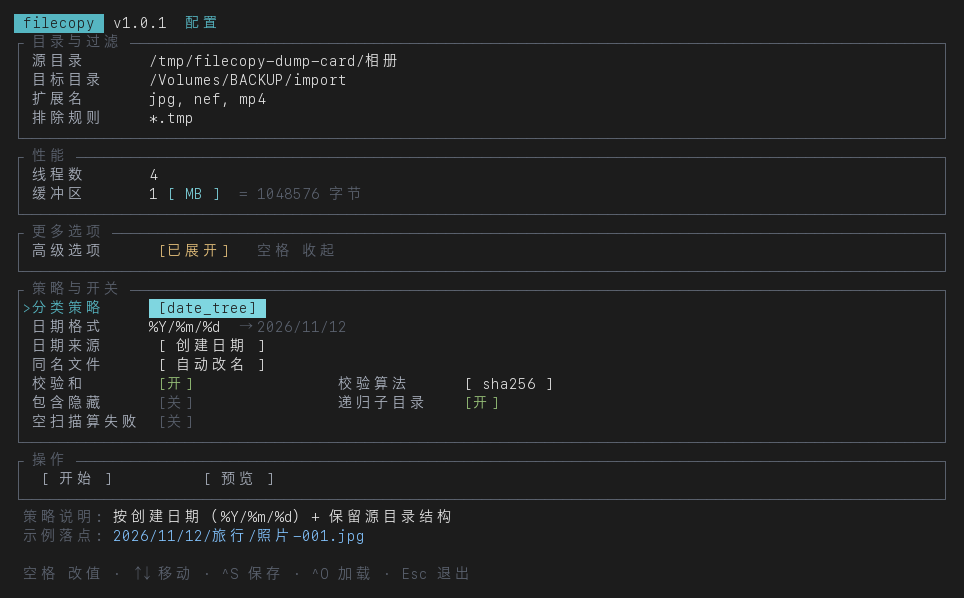
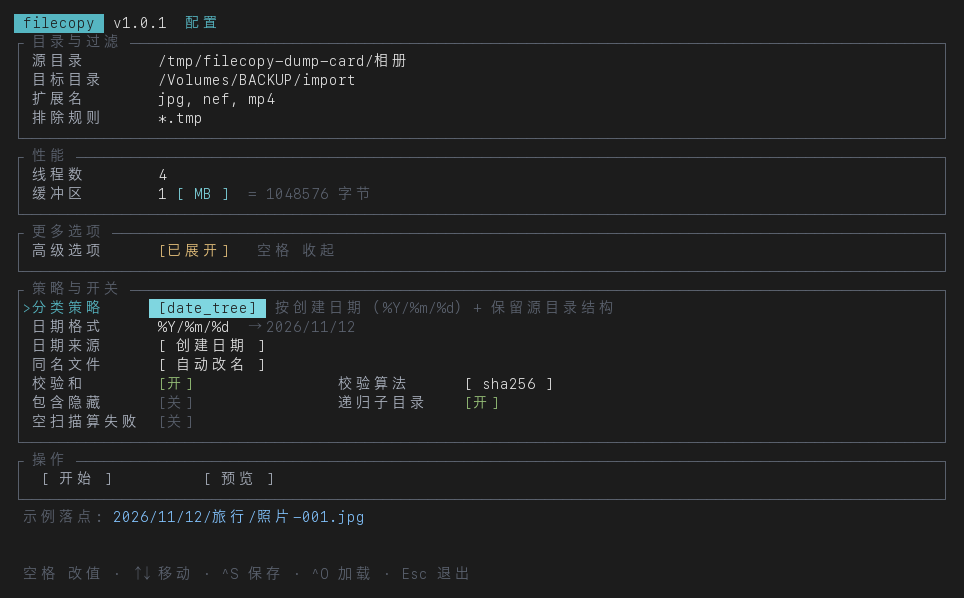
refactor(tui): 策略说明移到「分类策略」同一行
底部那行「策略说明:」飘在按钮下面，和它解释的字段隔了一整个表单，
展开高级选项时尤其别扭。

- 说明改成跟在「分类策略」的值后面（`[date_tree] 按创建日期（%Y/%m/%d）+ 保留源目录结构`），
  和日期格式的 `→ 2026/11/12`、缓冲区的 `= 1048576 字节` 是同一种写法
- 底部不再有单独的「策略说明」行，少占一行提示区
- 顺带修掉值列对不齐：未选中的文本字段少了前导空格，比选择框字段左一格
- 表单里的行超宽时也走 `clip_line`：以前长路径/长说明被边框硬切，现在截断成 `…`
- 测试新增 `strategy_description_sits_on_the_strategy_line`（按屏幕行断言，
  顺带确认底部不再有「策略说明」行）；README 与截图同步

diff --git a/src/tui/render.rs b/src/tui/render.rs
@@ -345,41 +345,34 @@ fn draw_form(f: &mut Frame, area: Rect, app: &super::App) {
     let layout = FormLayout::new(app, area.width);
 
     let hint_lines: Vec<Line<'static>> = if app.errors.is_empty() {
-        let strategy = Strategy::ALL[form.strategy_idx.min(Strategy::ALL.len() - 1)];
-        let mut lines = vec![
-            Line::from(vec![
-                Span::styled(" 策略说明: ", Style::default().fg(Color::DarkGray)),
-                Span::raw(strategy.describe(&form.date_format, form.date_source())),
-            ]),
-            Line::from({
-                // 落点是真算的：拿源目录里第一个会复制的文件，走一遍引擎那套策略计算
-                let preview = app.preview();
-                let mut spans = vec![Span::styled(
-                    " 示例落点: ",
+        let mut lines = vec![Line::from({
+            // 落点是真算的：拿源目录里第一个会复制的文件，走一遍引擎那套策略计算
+            let preview = app.preview();
+            let mut spans = vec![Span::styled(
+                " 示例落点: ",
+                Style::default().fg(Color::DarkGray),
+            )];
+            if preview.relative.is_empty() {
+                // 还没选源目录：算出来的落点无从谈起，别硬编一条给人看
+                spans.push(Span::styled(
+                    "（选好源目录后显示）",
                     Style::default().fg(Color::DarkGray),
-                )];
-                if preview.relative.is_empty() {
-                    // 还没选源目录：算出来的落点无从谈起，别硬编一条给人看
+                ));
+            } else {
+                spans.push(Span::styled(
+                    preview.relative,
+                    Style::default().fg(Color::LightBlue),
+                ));
+                if !preview.from_real_file {
+                    // 说实话：这不是真实文件的落点，别让人以为扫到了文件
                     spans.push(Span::styled(
-                        "（选好源目录后显示）",
+                        "（占位示例，源目录里暂无匹配文件）",
                         Style::default().fg(Color::DarkGray),
                     ));
-                } else {
-                    spans.push(Span::styled(
-                        preview.relative,
-                        Style::default().fg(Color::LightBlue),
-                    ));
-                    if !preview.from_real_file {
-                        // 说实话：这不是真实文件的落点，别让人以为扫到了文件
-                        spans.push(Span::styled(
-                            "（占位示例，源目录里暂无匹配文件）",
-                            Style::default().fg(Color::DarkGray),
-                        ));
-                    }
                 }
-                spans
-            }),
-        ];
+            }
+            spans
+        })];
         // 光标停在日期格式上时，给一段不吃编程知识的格式说明
         if app.field == Field::DateFormat && form.uses_date_format() {
             lines.push(Line::from(vec![
@@ -405,7 +398,7 @@ fn draw_form(f: &mut Frame, area: Rect, app: &super::App) {
     };
 
     let needed = layout.height();
-    // 提示行按「越靠后越重要」排列（策略说明 → 示例落点 → 格式说明），
+    // 提示行按「越靠后越重要」排列（示例落点 → 格式说明），
     // 空间不够时从前面砍，这样正在编辑日期格式时，格式说明不会先被挤掉。
     let hint_want = hint_lines.len() as u16;
     // 空间够就照常显示提示；不够时先牺牲提示，但错误信息尽量保留
@@ -418,7 +411,7 @@ fn draw_form(f: &mut Frame, area: Rect, app: &super::App) {
         let min_form = 6.min(area.height);
         hint_want.min(area.height.saturating_sub(min_form))
     };
-    // 位置不够时砍掉最前面的提示行（策略说明最先走），保住更贴近当前操作的那几行
+    // 位置不够时砍掉最前面的提示行（示例落点最先走），保住更贴近当前操作的那几行
     let hint_skip = (hint_want - hint_h) as usize;
     // 每条提示都压成单行：否则长句折行会把下面的页脚顶掉
     let hint_lines: Vec<Line<'static>> = hint_lines
@@ -447,7 +440,15 @@ fn draw_form(f: &mut Frame, area: Rect, app: &super::App) {
     for section in &layout.sections {
         let height = section.lines.len() as u16 + 2;
         let rect = Rect::new(0, y, area.width, height);
-        Paragraph::new(section.lines.clone())
+        // 超宽的行走 clip_line：不加这一刀，长路径/长说明会被边框硬切掉半个字
+        let inner = area.width.saturating_sub(2);
+        let lines: Vec<Line<'static>> = section
+            .lines
+            .iter()
+            .cloned()
+            .map(|line| clip_line(line, inner))
+            .collect();
+        Paragraph::new(lines)
             .block(
                 Block::default()
                     .borders(Borders::ALL)
@@ -666,8 +667,23 @@ fn field_line(app: &super::App, field: Field, form: &FormData, cursor: usize) ->
                 Style::default().fg(Color::DarkGray),
             ));
         } else {
-            spans.push(Span::styled(value, Style::default().fg(Color::White)));
+            // 选中态会先画一个空格再接光标块，这里补同样的空格，整列才对得齐
+            spans.push(Span::styled(
+                format!(" {value}"),
+                Style::default().fg(Color::White),
+            ));
         }
+    }
+    // 策略后面紧跟一句人话说明：它和「分类策略」同一行，不用去底部找
+    if field == Field::Strategy {
+        let strategy = Strategy::ALL[form.strategy_idx.min(Strategy::ALL.len() - 1)];
+        spans.push(Span::styled(
+            format!(
+                " {}",
+                strategy.describe(&form.date_format, form.date_source())
+            ),
+            Style::default().fg(Color::DarkGray),
+        ));
     }
     // 日期格式后面直接给个「算出来长什么样」，不用懂 %Y 也能看懂
     if field == Field::DateFormat && form.uses_date_format() {

diff --git a/src/tui/mod.rs b/src/tui/mod.rs
@@ -1613,6 +1613,37 @@ mod tests {
     }
 
     #[test]
+    fn strategy_description_sits_on_the_strategy_line() {
+        let mut app = App::new(None);
+        app.form.advanced_open = true;
+        app.form.strategy_idx = 1; // date_tree
+        app.form.date_format = "%Y/%m/%d".to_string();
+
+        let mut terminal = Terminal::new(TestBackend::new(150, 40)).unwrap();
+        terminal.draw(|f| render::draw(f, &app)).unwrap();
+        let text = screen_text(&terminal);
+        // 双宽字符的第二格是占位空格，逐行压掉空白后再找
+        let rows: Vec<String> = text.lines().map(squash).collect();
+
+        let row = rows
+            .iter()
+            .find(|line| line.contains("分类策略"))
+            .unwrap_or_else(|| panic!("没画出「分类策略」这一行:\n{text}"));
+        assert!(
+            row.contains("date_tree"),
+            "这一行该有当前策略值；实际:\n{row}"
+        );
+        assert!(
+            row.contains("保留源目录结构"),
+            "说明要跟在「分类策略」同一行，不该飘在底部；实际这一行:\n{row}\n整屏:\n{text}"
+        );
+        assert!(
+            !rows.iter().any(|line| line.starts_with("策略说明")),
+            "底部不该再有单独的「策略说明」行:\n{text}"
+        );
+    }
+
+    #[test]
     fn tab_moves_between_fields_and_wraps() {
         let mut app = App::new(None);
         assert_eq!(app.field, Field::Source);

diff --git a/README.md b/README.md
@@ -71,7 +71,9 @@ cargo build --release
 展开后开关两列排布，`←` `→` 在左右两列之间移动，`空格` 改值。
 互相依赖的选项会自动出现或消失：日期格式与日期来源只在按日期分类的策略下显示，
 校验算法只在打开校验时显示。日期格式后面会直接标出它算出来的样子（`%Y/%m/%d → 2026/11/11`），
-光标停在这一项上时底部还会把格式符逐个人话翻译一遍。底部实时显示当前策略会落到什么位置；
+光标停在这一项上时底部还会把格式符逐个人话翻译一遍。当前策略干什么用，就写在「分类策略」这一行后面
+（`[date_tree] 按创建日期（%Y/%m/%d）+ 保留源目录结构`），不单独占一行；窗口窄到放不下时截断成 `…`，
+不会把边框外的半个字切掉。底部实时显示当前策略会落到什么位置；
 终端矮到放不下时整张表单会跟着当前字段滚动，不会把字段切掉。
 
 ![目录浏览器](docs/screens/browser.png)
@@ -221,7 +223,7 @@ cargo build --release
 ## 测试
 
 ```bash
-cargo test                   # 89 个单元测试 + 33 个集成测试（引擎 27 + 预览对账 6）+ 8 个 CLI 冒烟测试
+cargo test                   # 90 个单元测试 + 33 个集成测试（引擎 27 + 预览对账 6）+ 8 个 CLI 冒烟测试
 cargo clippy --all-targets   # 0 warning
 cargo fmt --check
 ```
